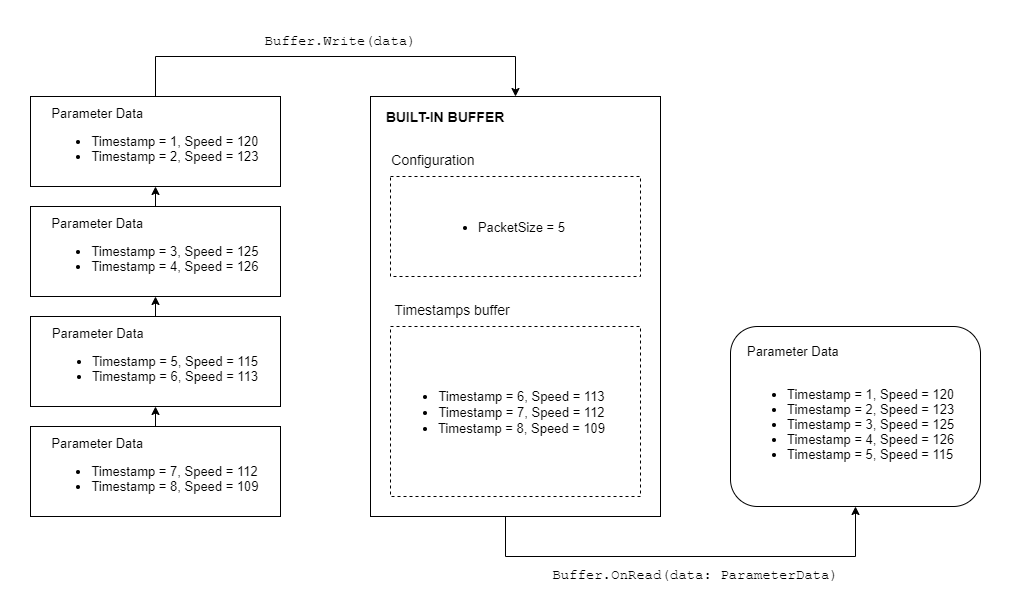
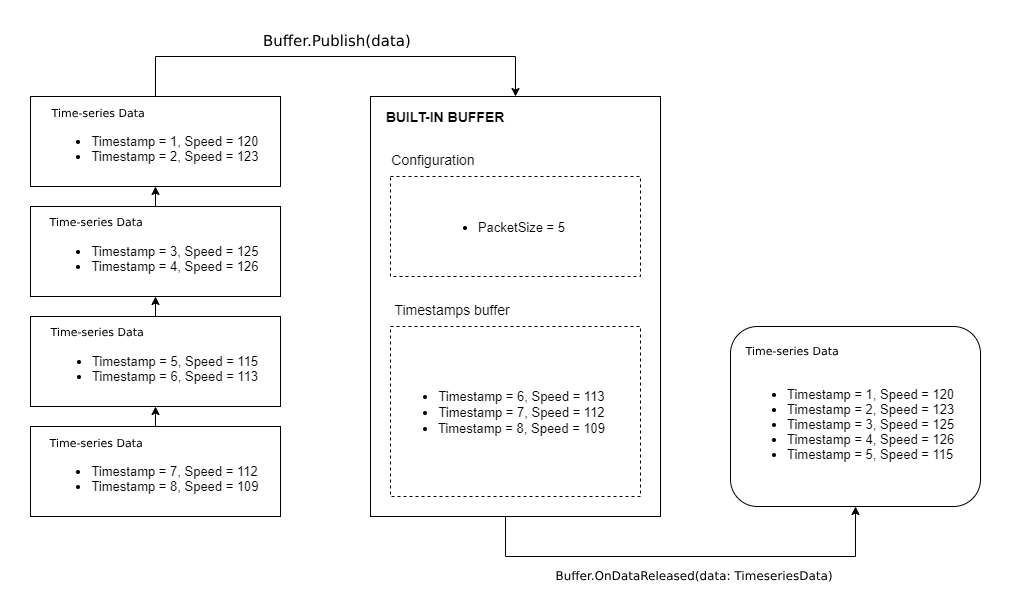
Update docs with LeadingEdgeBuffer and update outdated picture

diff --git a/docs/features/builtin-buffers.md b/docs/features/builtin-buffers.md
@@ -1,15 +1,42 @@
 # Built-in buffers
+  
+Quix Streams offers high-performance, low-latency buffering capabilities, providing an optimized method for sending and processing time-series data. The buffering mechanism used here helps reduce costs, mainly when dealing with high-frequency data, by improving data compression and reducing serialization and deserialization time.
 
-If you’re sending data at a high frequency, processing time-series data without any buffering involved can be very costly. With smaller messages, data compression cannot be implemented as efficiently. The time spent in serializing and deserializing messages can be improved by sending more values per message.
+Buffers in Quix Streams work at the timestamp level, accumulating timestamps until a specific release condition is met. A packet is then published containing those timestamps and values as a [TimeseriesData](../subscribe.md#timeseriesdata-format) package.
 
-On the other hand, an incorrect buffer strategy can introduce unnecessary latency which may not be acceptable in some use cases.
-
-Quix Streams provides you with a high performance and low-latency buffer, and a simple way to  configure buffer parameters. This enables you to configure the buffer to balance latency and cost of memeory allocated to buffers.
-
-Buffers in the library work at the timestamp level. A buffer accumulates timestamps until a release condition is met. A packet is then published containing those timestamps and values as a [TimeseriesData](../subscribe.md#timeseriesdata-format) package.
-
+ 
 ![High level time-series buffering flow](../images/QuixBuffering.png)
+
 
 The buffer can be used to [subscribe](../subscribe.md#using-a-buffer) to and [publish](../publish.md#using-a-buffer) time-series data.
 
-The Quix Streams buffer implementation uses short-lived memory allocations and minimizes conversions between raw transport packages and the [TimeseriesData](../subscribe.md#timeseriesdata-format) format, to achieve low CPU and memory consumption, while retaining high throughput. 
+ ## Leading edge buffer
+ In addition to the package size, timespan and timeout buffer configurations, Quix Streams also offers the `LeadingEdgeBuffer` – a buffer that can be especially useful when data received is out-of-order and must be ordered before it is consumed and late arriving data.
+
+```csharp
+// Create LeadingEdgeBuffer with leading edge delay of 1000ms
+var leadingEdgeBuffer = stream.Timeseries.Buffer.CreateLeadingEdgeBuffer(1000);
+
+buffer.OnBackfill += (sender, row) => { /* handle backfill */ };
+buffer.OnPublish += (sender, data) => { /* handle publish */ };
+
+foreach (var data in unorderedData)
+{
+	var timestamp = buffer.GetOrCreateTimestamp(data.Timestamp);
+	timestamp.AddValue(parameterId, data.Value, overwrite: data.ShouldOverwrite)
+}
+
+buffer.Publish();
+```
+
+Note: The example code provided is in C#, and as of now, the Python implementation does not exist yet
+
+    
+The leading edge delay configuration gives out-of-order data a chance to be sorted in the correct order.
+Setting a leading edge delay means that you're not processing the data in real-time. Instead, you're processing it near real-time, with a delay equal to the leading edge delay you've set.
+This trade-off is often worth it, as it reduces the likelihood of misinterpreting your data due to missing out on late-arriving data points.    
+    
+
+Buffers are designed to handle streaming data that arrives in real-time, and they usually expect this data to arrive in order.
+However, there can be instances when data doesn't arrive in the expected order due to issues like network delays or processing times at the source.
+The `OnBackfill` event is triggered to handle these instances. `OnBackfill` event is triggered when a data point arrives that has a timestamp older than the most recent or "last released" timestamp from the buffer.

diff --git a/README.md b/README.md
@@ -237,6 +237,9 @@ If you’re sending data at <b>high frequency</b>, processing each message can b
     buffer.on_dataframe_released = on_read_dataframe_handler
     ```
 
+
+For a detailed overview of built-in buffers, [visit our documentation](https://quix.io/docs/client-library/features/builtin-buffers.html).
+
 ### Support for DataFrames
 
 Time-series parameters are emitted at the same time, so they share one timestamp. Handling this data independently is wasteful. The library uses a tabular system that can work for instance with <b>Pandas DataFrames</b> natively. Each row has a timestamp and <b>user-defined tags</b> as indexes.
